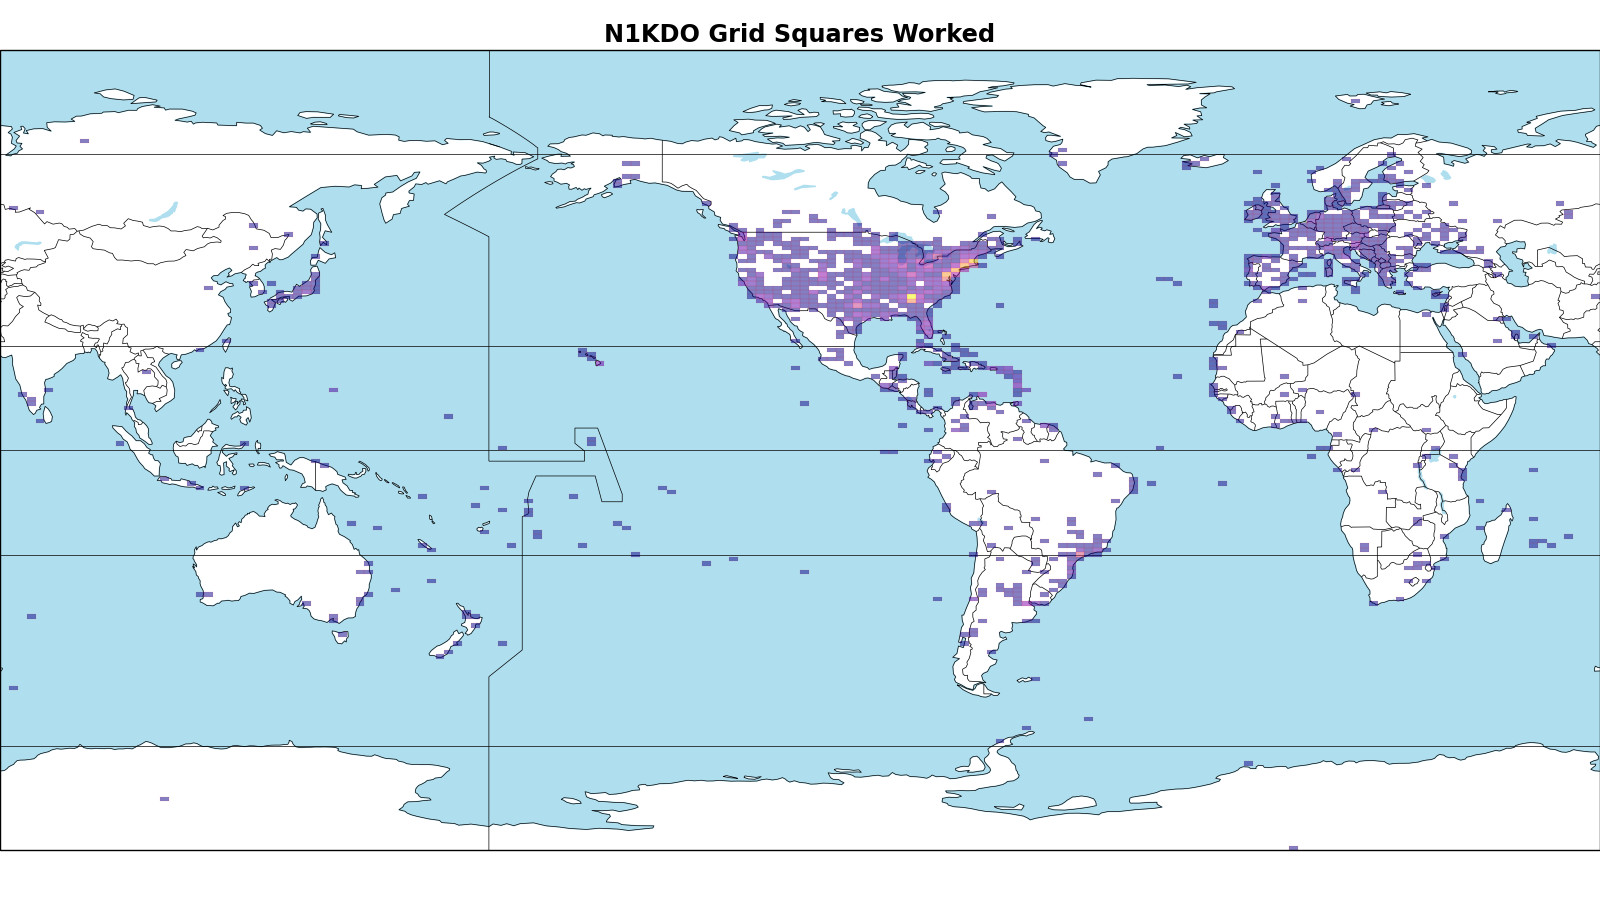
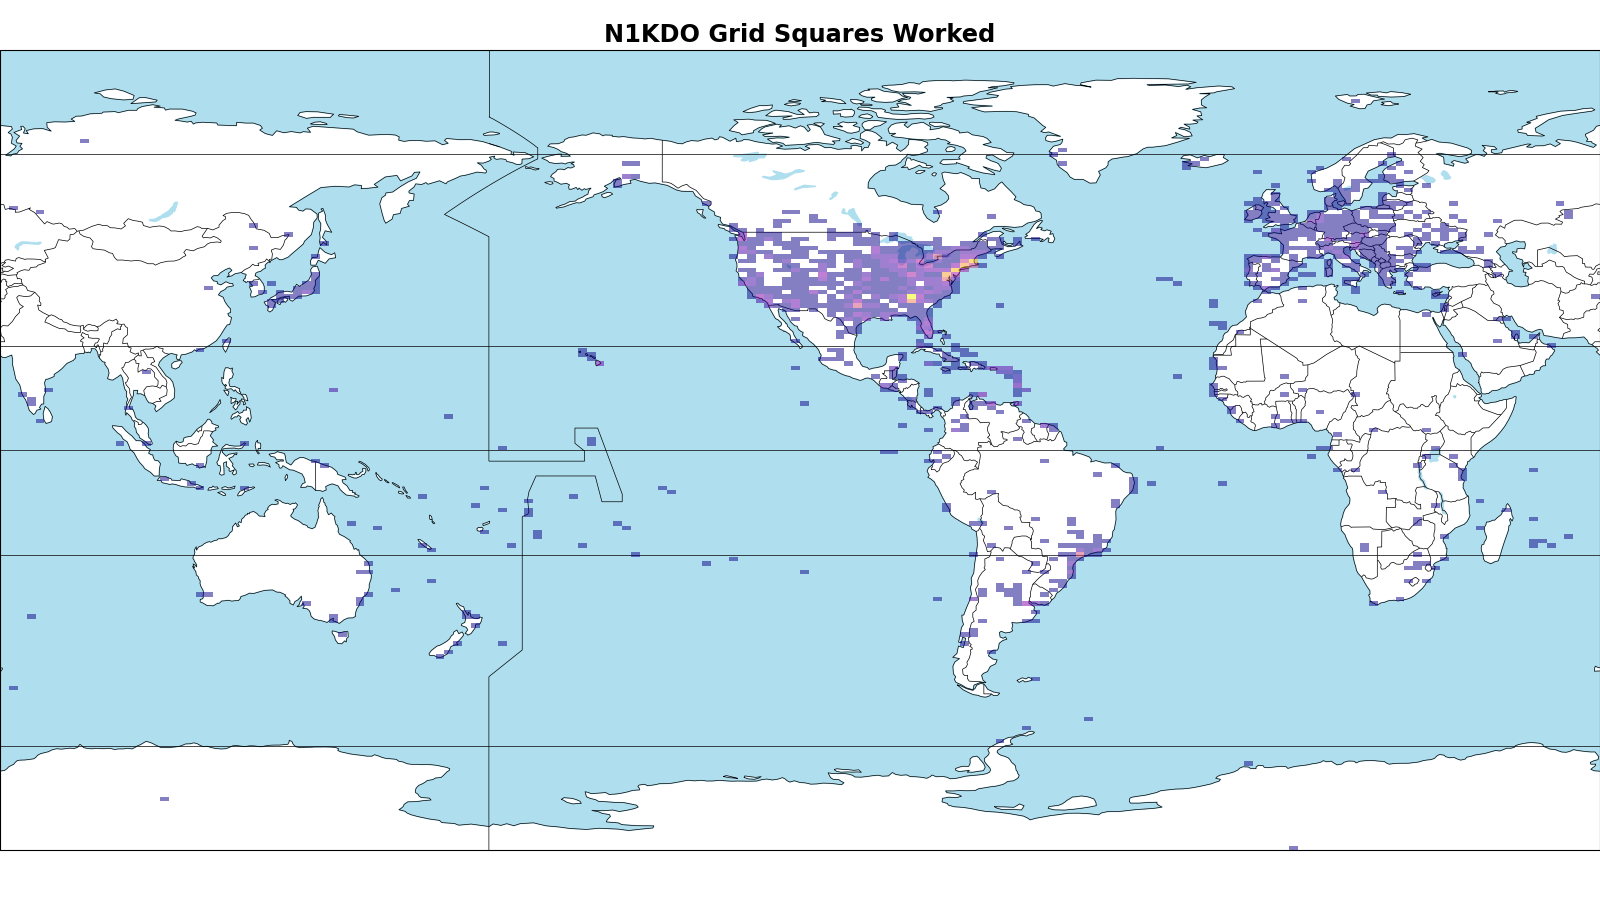
bugfix for invalid grid square, etc,

Changed region(s): [[0.5, 0.0311, 0.625, 0.0622]]

diff --git a/adif-log-analyzer.py b/adif-log-analyzer.py
@@ -134,7 +134,7 @@ def crunch_data(qso_list):
                 confirmed = 1
                 verified = 1
 
-            qso_band = qso.get('band')
+            qso_band = (qso.get('band') or '').upper()
             dxcc_lookup_tuple = adif.dxcc_countries.get(qso_dxcc) or ('None', False)
             dxcc_name = dxcc_lookup_tuple[0]
             deleted = dxcc_lookup_tuple[1]
@@ -420,12 +420,12 @@ def main():
     while len(callsign) < 3:
         callsign = input('enter callsign: ')
 
-    filename = '{}-lotw.adif'.format(callsign)
+    filename = '' #  '{}-lotw.adif'.format(callsign)
 
     while len(filename) < 4:
-        filename = input('Enter adif file name')
+        filename = input('Enter adif file name: ')
         if not os.path.exists(filename):
-            filename = None
+            filename = ''
 
     qso_list = get_qsos_from_adif(filename)
     logging.info('read {} qsls from {}'.format(len(qso_list), filename))

diff --git a/qso_charts.py b/qso_charts.py
@@ -576,12 +576,13 @@ def plot_map(qsos, title, filename=None, start_date=None, end_date=None):
     scale = max(scale, 1)
 
     for grid in grids.keys():
-        box = grid_square_box(grid)
-        count = grids[grid]
-        index = int(count / scale)
-        index = min(index, num_colors - 1)
-        clr = color_palette[index]
-        ax.add_geometries([box], ccrs.PlateCarree(), alpha=0.5, facecolor=clr, edgecolor=clr, linewidth=0)
+        if len(grid) >= 4:
+            box = grid_square_box(grid)
+            count = grids[grid]
+            index = int(count / scale)
+            index = min(index, num_colors - 1)
+            clr = color_palette[index]
+            ax.add_geometries([box], ccrs.PlateCarree(), alpha=0.5, facecolor=clr, edgecolor=clr, linewidth=0)
 
     if filename is not None:
         canvas = agg.FigureCanvasAgg(fig)
